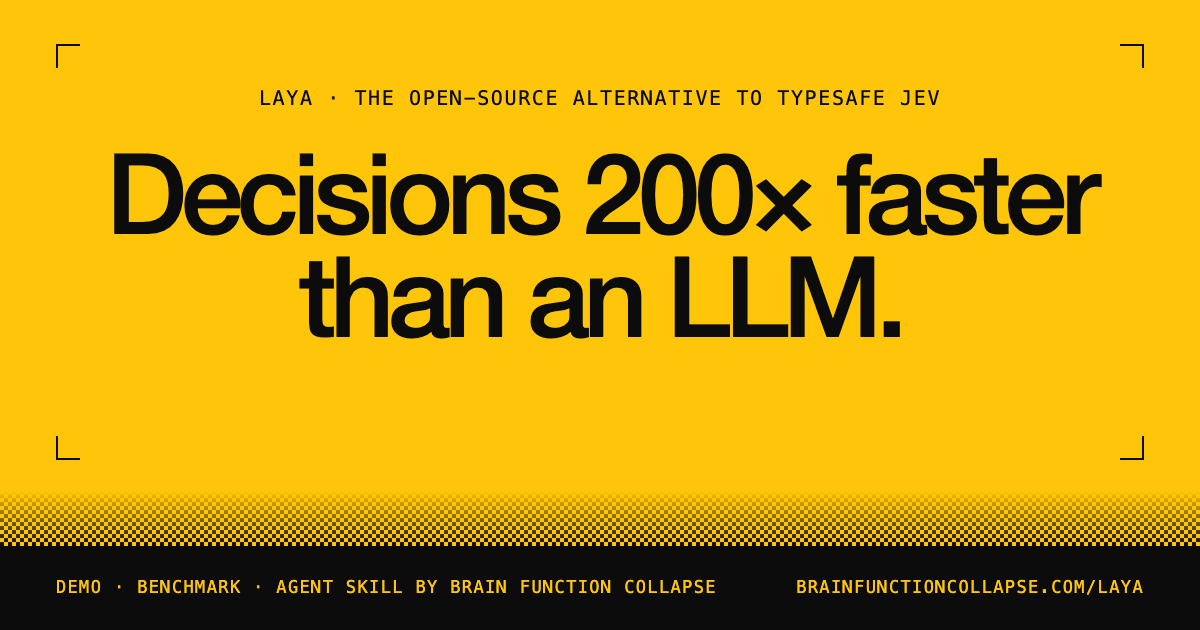
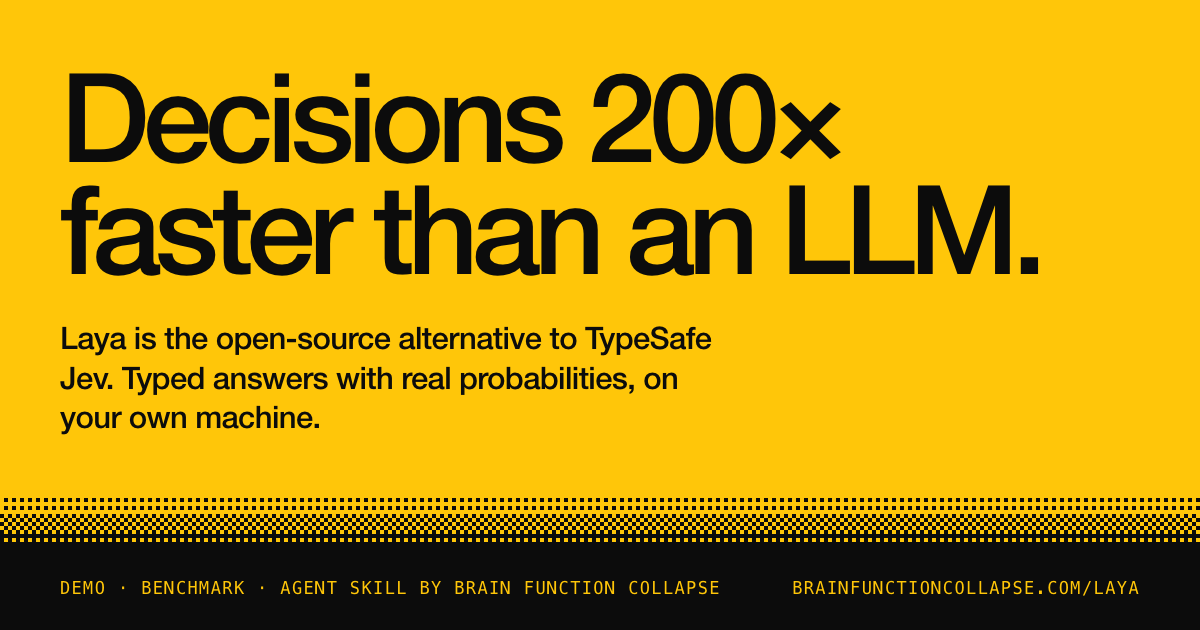
The social card takes the site's new shape
Left-aligned headline on the page margin, the three-step seam, no corner
brackets and no label above the headline: the SEO phrase moves into a lede.

diff --git a/tools/og.html b/tools/og.html
@@ -1,24 +1,22 @@
 <!doctype html><meta charset="utf-8">
+<!-- The social card, 1200 x 630, in the site's own system: left-aligned amber page head, the three-step dither seam, an ink foot.
+     Render it with headless Chrome (it does not exit by itself, so kill it once og.png exists):
+       chrome --headless=new --hide-scrollbars --force-device-scale-factor=1 --window-size=1200,630 --screenshot=og.png tools/og.html -->
 <style>
   html, body { margin: 0; width: 1200px; height: 630px; background: #ffc609; color: #0c0c0c; overflow: hidden; }
-  body { font-family: "Helvetica Neue", Helvetica, Arial, sans-serif; position: relative; }
-  .mono { font: 20px/1.4 "SF Mono", Menlo, monospace; letter-spacing: .08em; text-transform: uppercase; }
-  .frame { position: absolute; inset: 44px 56px 170px; }
-  .frame i { position: absolute; width: 22px; height: 22px; border: 0 solid #0c0c0c; }
-  .frame i:nth-child(1) { top: 0; left: 0; border-top-width: 2px; border-left-width: 2px; }
-  .frame i:nth-child(2) { top: 0; right: 0; border-top-width: 2px; border-right-width: 2px; }
-  .frame i:nth-child(3) { bottom: 0; left: 0; border-bottom-width: 2px; border-left-width: 2px; }
-  .frame i:nth-child(4) { bottom: 0; right: 0; border-bottom-width: 2px; border-right-width: 2px; }
-  .top { position: absolute; top: 84px; left: 0; right: 0; text-align: center; }
-  h1 { position: absolute; top: 140px; left: 80px; right: 80px; margin: 0; text-align: center; font-weight: 500; font-size: 112px; line-height: .92; letter-spacing: -.055em; }
-  .dither { position: absolute; left: 0; right: 0; bottom: 84px; height: 56px; color: #0c0c0c;
-    background: repeating-conic-gradient(currentColor 0% 25%, transparent 0% 50%) 0 0 / 8px 8px; -webkit-mask-image: linear-gradient(to top, #000, transparent); }
-  .foot { position: absolute; left: 56px; right: 56px; bottom: 30px; display: flex; justify-content: space-between; font-size: 17px; }
-  .bar { position: absolute; left: 0; right: 0; bottom: 0; height: 84px; background: #0c0c0c; }
-  .foot { color: #ffc609; z-index: 2; }
+  body { font-family: "Helvetica Neue", Helvetica, Arial, sans-serif; position: relative; -webkit-font-smoothing: antialiased; }
+  h1 { position: absolute; top: 60px; left: 60px; right: 60px; margin: 0; font-weight: 500; font-size: 124px; line-height: .9; letter-spacing: -.055em; }
+  p { position: absolute; top: 318px; left: 60px; width: 760px; margin: 0; font-weight: 500; font-size: 31px; line-height: 1.28; letter-spacing: -.02em; text-wrap: pretty; }
+  /* where amber meets ink: 75, 50 and 25 percent amber, on an 8px tile so it survives the downscaling social sites apply */
+  .seam { position: absolute; left: 0; right: 0; bottom: 84px; height: 48px; }
+  .seam i { display: block; height: 16px; }
+  .seam i:nth-child(1) { background: conic-gradient(#0c0c0c 25%, transparent 0) 0 0 / 8px 8px, #ffc609; }
+  .seam i:nth-child(2) { background: repeating-conic-gradient(#ffc609 0% 25%, transparent 0% 50%) 0 0 / 8px 8px, #0c0c0c; }
+  .seam i:nth-child(3) { background: conic-gradient(#ffc609 25%, transparent 0) 0 0 / 8px 8px, #0c0c0c; }
+  .foot { position: absolute; left: 0; right: 0; bottom: 0; height: 84px; box-sizing: border-box; padding: 0 60px; display: flex; align-items: center; justify-content: space-between;
+    background: #0c0c0c; color: #ffc609; font: 17px/1 "SF Mono", Menlo, monospace; letter-spacing: .08em; text-transform: uppercase; }
 </style>
-<div class="frame"><i></i><i></i><i></i><i></i></div>
-<div class="top mono">Laya · The Open-Source Alternative To TypeSafe Jev</div>
-<h1>Decisions 200× faster than an LLM.</h1>
-<div class="dither"></div><div class="bar"></div>
-<div class="foot mono"><span>Demo · benchmark · agent skill by brain function collapse</span><span>brainfunctioncollapse.com/laya</span></div>
+<h1>Decisions 200×<br>faster than an LLM.</h1>
+<p>Laya is the open-source alternative to TypeSafe Jev. Typed answers with real probabilities, on your own&nbsp;machine.</p>
+<div class="seam"><i></i><i></i><i></i></div>
+<div class="foot"><span>Demo · benchmark · agent skill by brain function collapse</span><span>brainfunctioncollapse.com/laya</span></div>
